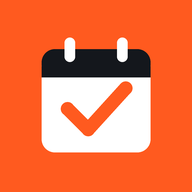
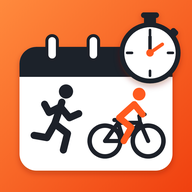
Neues App-Symbol: Läufer, Radfahrer, Stoppuhr und Kalender
Claude-Session: https://claude.ai/code/session_01WttESTsiFGLWGqqjps2vBt

diff --git a/sw.js b/sw.js
@@ -1,5 +1,5 @@
 // Offline-Unterstützung: erst Netz, bei Funkloch aus dem Zwischenspeicher
-const CACHE = "sportticker-v2";
+const CACHE = "sportticker-v3";
 const FILES = ["./", "index.html", "manifest.json", "icon-180.png", "icon-192.png", "icon-512.png"];
 self.addEventListener("install", e => { e.waitUntil(caches.open(CACHE).then(c => c.addAll(FILES))); self.skipWaiting(); });
 self.addEventListener("activate", e => {

diff --git a/index.html b/index.html
@@ -8,7 +8,7 @@
 <meta name="theme-color" content="#ff5a1f">
 <meta name="apple-mobile-web-app-status-bar-style" content="default">
 <link rel="manifest" href="manifest.json">
-<link rel="apple-touch-icon" href="icon-180.png">
+<link rel="apple-touch-icon" href="icon-180.png?v=3">
 <link rel="icon" type="image/png" href="icon-192.png">
 <title>Mein Sportticker</title>
 <style>
